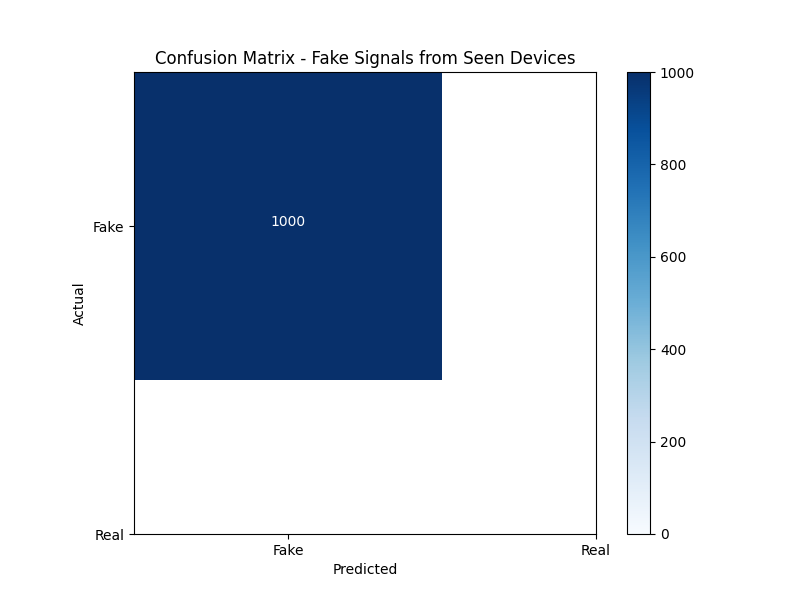
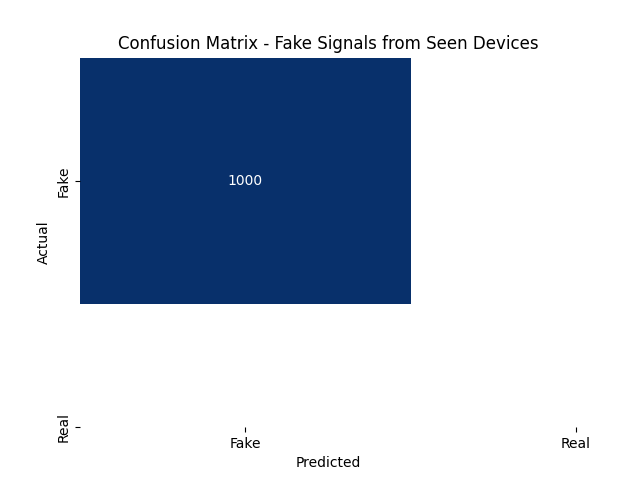
puf_classifier_v7 file added to do multiple classification on device signals, each with its own label

diff --git a/validation.py b/validation.py
@@ -8,7 +8,6 @@ from puf_classifier_v6 import CNN
 from sklearn.metrics import confusion_matrix, ConfusionMatrixDisplay
 import seaborn as sns
 import matplotlib.pyplot as plt
-from matplotlib.colors import ListedColormap
 
 # Helper function to create vectors with intensity data measurements from CSV file
 def create_dataset(df, sequence_size):
@@ -282,44 +281,34 @@ labels_fake_seen_v6 = fake_seen_dev_cut_labels_v6  # Fake signals from a seen de
 labels_fake_unseen_v6 = fake_unseen_dev_cut_labels_v6  # Fake signals from an unseen device (should be 0s)
 
 # Generate confusion matrix for each set
-cm_real = confusion_matrix(labels_real_v6, preds_real_v6)
-cm_fake_seen = confusion_matrix(labels_fake_seen_v6, preds_fake_seen_v6)
-cm_fake_unseen = confusion_matrix(labels_fake_unseen_v6, preds_fake_unseen_v6)
+labels = ['Fake', 'Real']
+cm_real = confusion_matrix(labels_real_v6, preds_real_v6, labels=labels)
+cm_fake_seen = confusion_matrix(labels_fake_seen_v6, preds_fake_seen_v6, labels=labels)
+cm_fake_unseen = confusion_matrix(labels_fake_unseen_v6, preds_fake_unseen_v6, labels=labels)
 
 # Plot the confusion matrices
 def plot_confusion_matrix(cm, title, filename, save_dir):
-    plt.figure(figsize=(8, 6))
+    plt.figure()
     
-    # Define the axis labels
+    # Define custom labels for the axes (e.g., 'Fake' for 0 and 'Real' for 1), vmax, and vmin
     labels = ['Fake', 'Real']
+    vmin = 0
+    vmax = cm.max()
     
-    # Create a custom colormap where 0 values get a unique color (e.g., light gray)
-    cmap = ListedColormap(['lightgray', 'lightblue', 'blue'])
+    print(f"Confusion Matrix: {cm}")
+    print(f"Confusion Matrix Shape: {cm.shape}")
     
-    # Plot the confusion matrix with custom colormap
-    plt.imshow(cm, interpolation='nearest', cmap=cmap)
+    # Plot the confusion matrix with custom labels
+    sns.heatmap(cm, annot=True, fmt='d', cmap='Blues', cbar=False,
+                xticklabels=labels, yticklabels=labels, vmin=vmin, vmax=vmax)
+    
     plt.title(title)
-    plt.colorbar()
-
-    # Add ticks and labels for both axes
-    tick_marks = np.arange(len(labels))
-    plt.xticks(tick_marks, labels)
-    plt.yticks(tick_marks, labels)
-
-    # Manually annotate each cell, including zeros
-    for i in range(cm.shape[0]):
-        for j in range(cm.shape[1]):
-            plt.text(j, i, format(cm[i, j], 'd'),
-                     horizontalalignment="center",
-                     color="white" if cm[i, j] > np.max(cm) / 2 else "black")
-
-    # Add labels to the axes
-    plt.ylabel('Actual')
     plt.xlabel('Predicted')
-
+    plt.ylabel('Actual')
+    
     # Ensure the save directory exists
     os.makedirs(save_dir, exist_ok=True)
-
+    
     # Save the figure as a PNG file
     file_path = os.path.join(save_dir, filename)
     plt.savefig(file_path)

diff --git a/puf_classifier_v7.py b/puf_classifier_v7.py
@@ -1,11 +1,12 @@
 #!/ibex/user/nandhan/mambaforge/bin/python3
 
 '''
-Header: puf_classifier_v6.py
+Header: puf_classifier_v7.py
 The code snippet below is an extension of the code snippet from puf_classifier_v1.6.py. The code snippet
-below is trained on new data measured from new devices on August 19th 2024. It has the same architecture
-as the model in puf_classifier_v1.5.py but the data is different. Data is measured from one device except
-that the laser is pumped with different amounts of current. We call this device 0
+below is trained on all devices from the first two sets of experiments. The code snippet below is trained
+using the CrossEntropyLoss() loss function which applies the softmax function to the output layer neurons
+for multiple class classification problems. The goal of the model in this file is to classify the data as 
+beloning to a certain device.
 '''
 
 import torch

diff --git a/puf_classifier_v4.py b/puf_classifier_v4.py
@@ -1,7 +1,7 @@
 #!/ibex/user/nandhan/mambaforge/bin/python3
 
 '''
-Header: puf_classifier_v1.4.py
+Header: puf_classifier_v4.py
 The code snippet below is an extension of the code snippet from puf_classifier_v1.3.py. The code snippet
 below is trained using a loss function that is better suited for binary classification problems. The
 loss function used is BinaryCrossEntropy Loss With Logits and this applies the sigmoid function to the

diff --git a/puf_classifier_v2.py b/puf_classifier_v2.py
@@ -1,5 +1,5 @@
 '''
-Header: puf_classifier_v1.2.py
+Header: puf_classifier_v2.py
 This code trains a 1D CNN model to classify the data from the CSV files as "real" or "fake" based on the device
 the data was measured from. One device is arbitrarily chosen as the "real" device and the rest are considered "fake"
 devices. The model is trained on data from 7 devices and tested on data from an 8th device. The model is trained

diff --git a/puf_classifier_v5.py b/puf_classifier_v5.py
@@ -1,7 +1,7 @@
 #!/ibex/user/nandhan/mambaforge/bin/python3
 
 '''
-Header: puf_classifier_v1.5.py
+Header: puf_classifier_v5.py
 The code snippet below is an extension of the code snippet from puf_classifier_v1.4.py. The code snippet
 below is trained on new data measured from new devices on July 14th 2024. It has the same architecture
 as the model in puf_classifier_v1.4.py but the data is different.

diff --git a/puf_classifier_v3.py b/puf_classifier_v3.py
@@ -1,7 +1,7 @@
 #!/ibex/user/nandhan/mambaforge/bin/python3
 
 '''
-Header: puf_classifier_v1.3.py
+Header: puf_classifier_v3.py
 The code snippet below is an extension and a modification of the code snippet 
 from puf_classifier_v1.2.py. The code snippet returns to the approach of feeding
 the entire sequence of intensity data measurements to the model instead of converting
